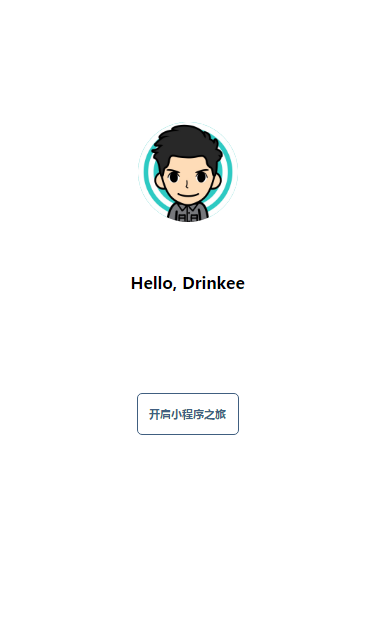
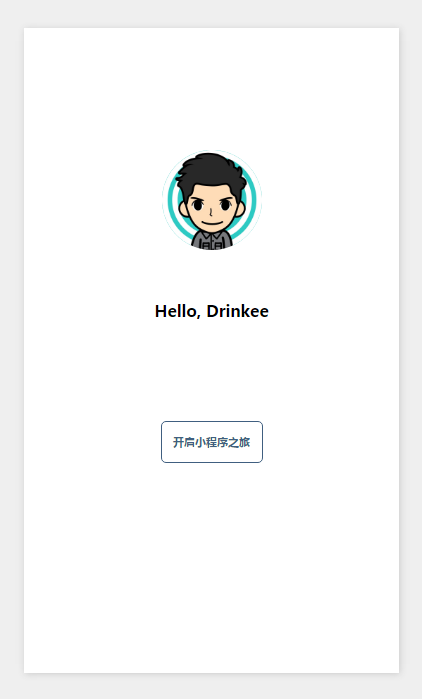
replace photo

diff --git a/README.md b/README.md
@@ -4,4 +4,4 @@ A WeChat Applet demo
 - Reader
 - Movie
 
-![/images/welcome-view.png]("/images/welcome-view.png")
+![预览](/images/welcome.png)
